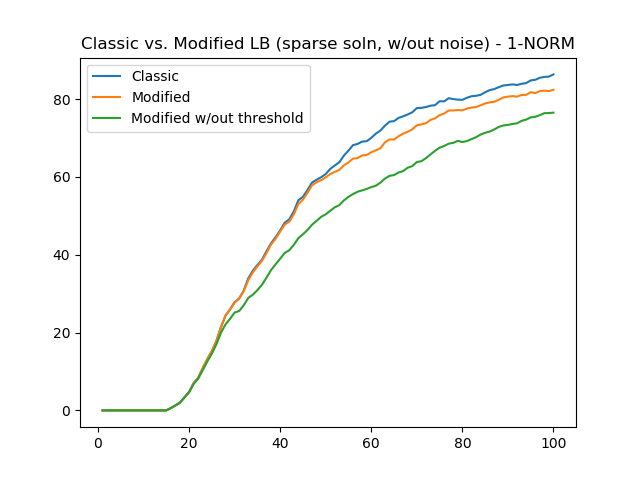
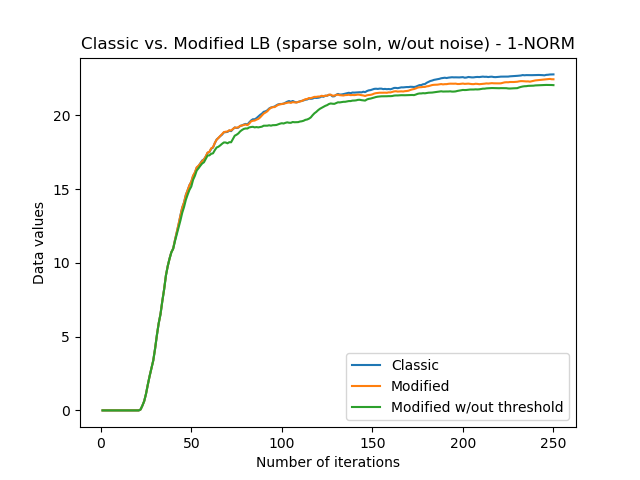
Separate matlab code

diff --git a/linearized_bregman/LB_comp.py b/linearized_bregman/LB_comp.py
@@ -40,7 +40,7 @@ def rand_sparse(n, frac):
     """
     R = np.zeros(n, dtype=float)
     idx = random.permutation(n)
-    for i in idx[0:(n/frac)]:
+    for i in idx[0:int(n/frac)]:
         R[i] = random.rand(1)
     return R
     
@@ -83,7 +83,7 @@ def lb_compare(m, n, num_samp, max_iter, sparse=True, noise=False):
     # ------ SETTING PARAMETERS ------
     # true value of x (x*, solution)
     if (sparse):
-        x_true = rand_sparse(n, 5)
+        x_true = rand_sparse(n, 20)
     else:
         x_true = rand_exp_decay(n, 0.0001, np.sqrt(5))
 
@@ -219,12 +219,12 @@ def get_title(sparse, noise, type):
     return title 
 
 def get_filename(sparse, noise, type):
-    filename = "plots/" + type
+    filename = "../plots/" + type
     # get sparse filename 
     if (sparse): 
         filename += "_sparse_"
     else:
-        filename += "randExpDecay_"
+        filename += "_randExpDecay_"
     # get noise filename 
     if (noise):
         filename += "noise.png"
@@ -236,6 +236,8 @@ def plot(max_iter, data, title, filename):
     plt.clf()
     plt.plot(range(1, max_iter+1), data)
     plt.legend(["Classic", "Modified", "Modified w/out threshold"])
+    plt.xlabel("Number of iterations")
+    plt.ylabel("Data values")
     plt.title(title)
     plt.savefig(filename)
 
@@ -246,7 +248,7 @@ def main():
     num_samp = 200    # rows of A and y to sample, num_samp < n
     max_iter = 250
     sparse = True 
-    noise = True
+    noise = False
     
     plot_residual = True
     plot_onenorm = True
